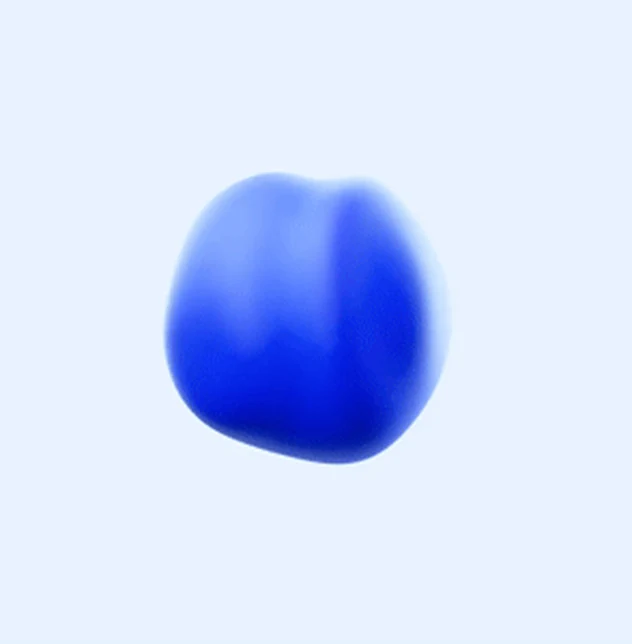
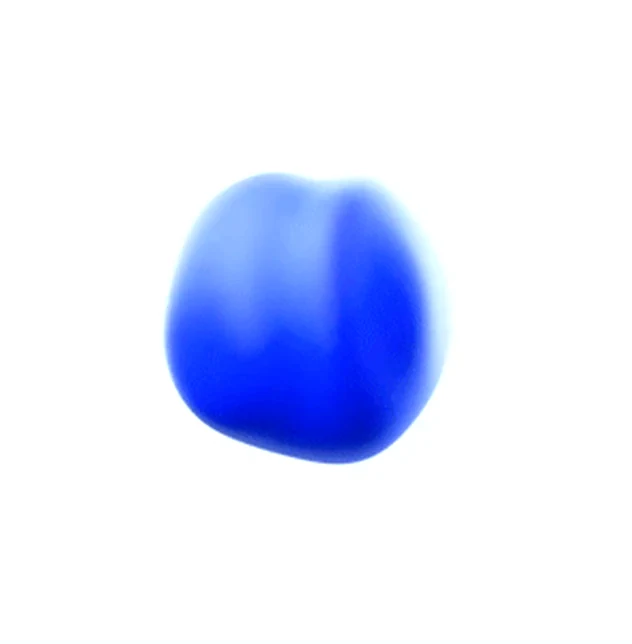
Take the blob clip's ground to white
The clip is rendered on a flat #e9f2fe, which read as a tinted tile among the
collage's white ones. Lifting it by 255/233 takes that ground to pure white.

The form survives the lift: the ground sits at luma 241 and the blob's
brightest pixel at 215, so there is headroom and nothing of the shape clips.
A little saturation puts back the richness the lift costs.

Done in the compositor rather than by re-encoding. Keying the frames properly
would preserve the blob exactly, but there is no video encoder on this machine,
so it would mean rebuilding from the 400x300 GIF and giving up the 720x540
source — a visible downgrade on a retina screen for a difference that is not
visible at all. I compared the two on a frame before choosing. The same
correction is baked into the poster, which is a real file.

The tile's own background goes white to match, so any edge matches the card.

Verified by sampling the rendered page at 2x rather than by eye: all four
corners of the tile come back (255,255,255), identical to the card beside it,
with the blob centre still (28,84,255).

Changed region(s): [[0.2706, 0.4348, 0.6915, 0.7143]]

diff --git a/src/components/sections/Bio.tsx b/src/components/sections/Bio.tsx
@@ -122,17 +122,28 @@ export function Bio() {
               /* Same chrome as a `card` tile, but the clip fills it. */
               <div
                 key={c.src}
-                className="absolute overflow-hidden rounded-[16px] bg-[#e9f2fe]"
+                className="absolute overflow-hidden rounded-[16px] bg-white"
                 style={{
                   ...box,
                   boxShadow:
                     "0.5px 0.5px 2px 0px rgba(103,109,124,0.12), 0px 2px 4px 0px rgba(103,109,124,0.1)",
                 }}
               >
+                {/*
+                  The clip is rendered on a flat #e9f2fe ground, and the tile
+                  wants white. Lifting it by 255/233 takes that ground to pure
+                  white, and the blob survives it: its brightest pixel is luma
+                  215 against the ground's 241, so nothing of the form clips.
+                  Done in the compositor rather than by re-encoding, because
+                  the only encoder available here would mean rebuilding from
+                  the 400x300 GIF instead of this 720x540 source. The touch of
+                  saturation puts back the richness the lift costs.
+                */}
                 <CollageVideo
                   src={`/images/collage/${c.video.src}`}
                   poster={`/images/collage/${c.video.poster}`}
                   className="h-full w-full object-cover"
+                  style={{ filter: "brightness(1.095) saturate(1.06)" }}
                 />
               </div>
             );
